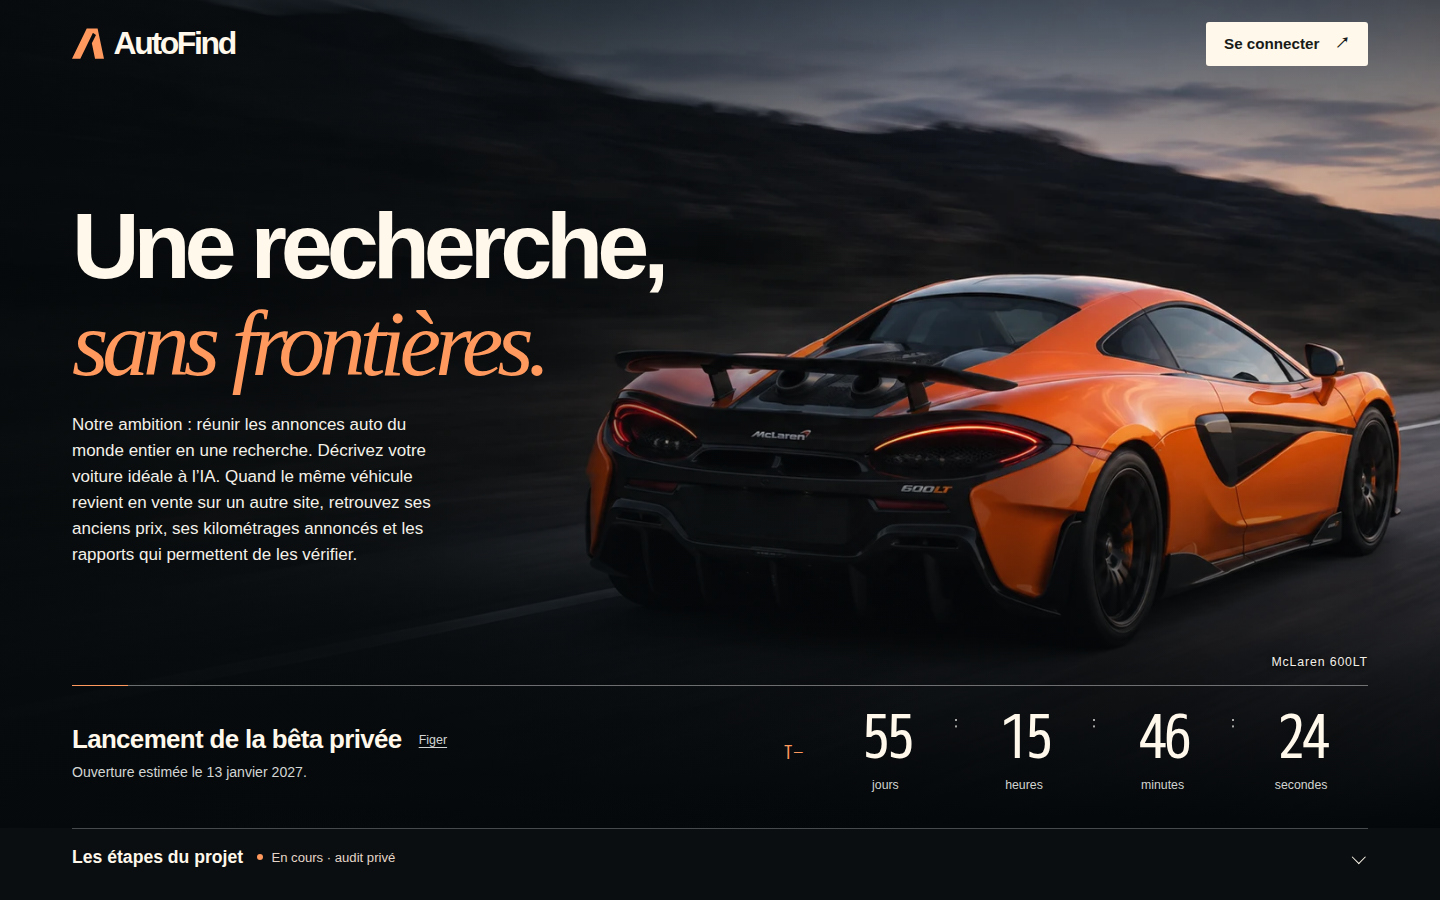
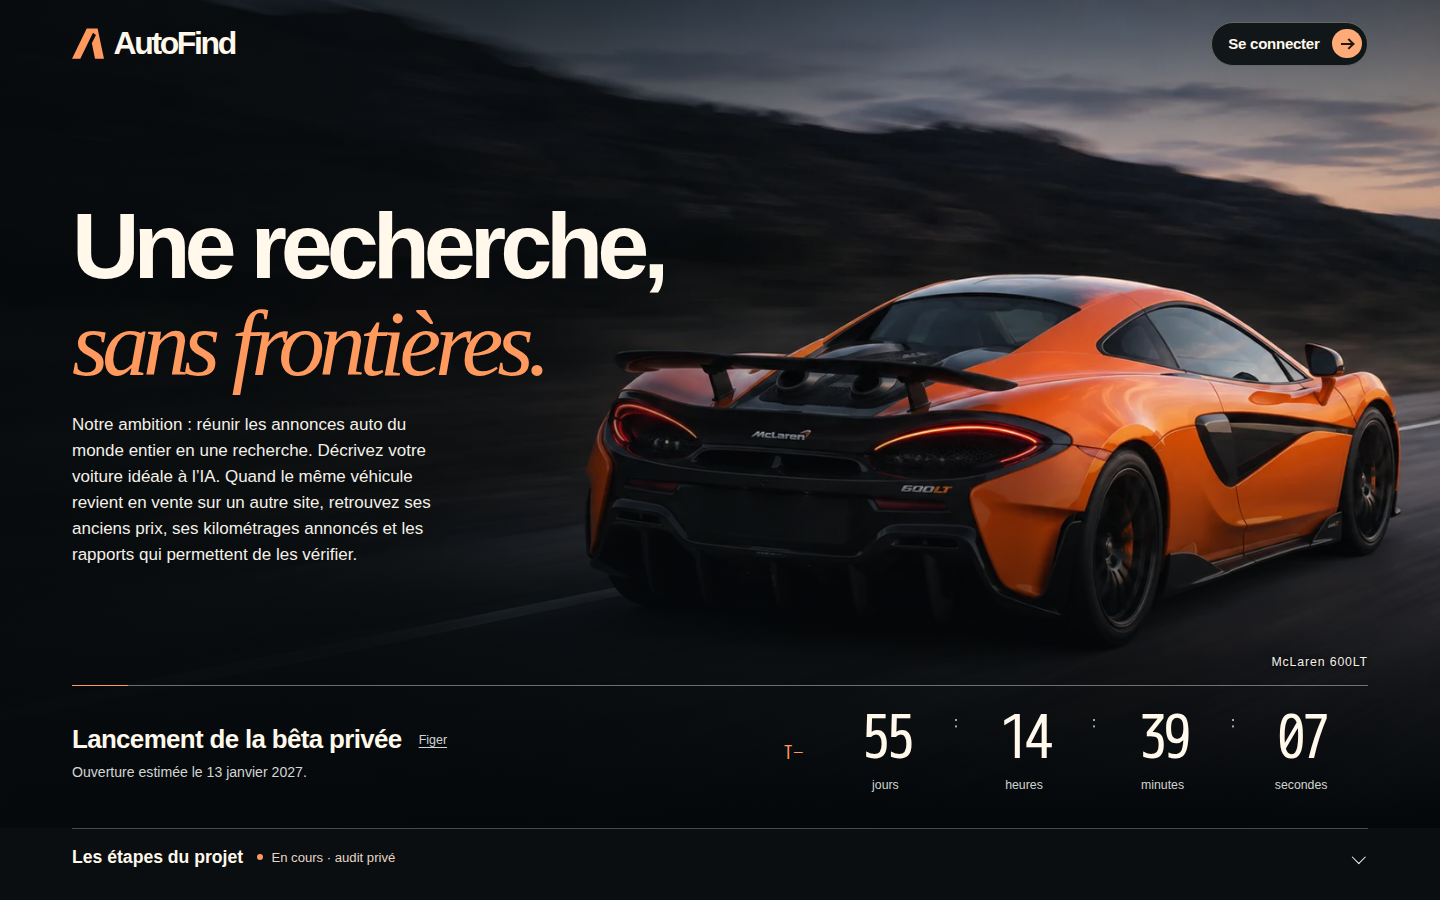
style(web): refine the launch page sign-in control

diff --git a/infra/private-web/templates/launch.html b/infra/private-web/templates/launch.html
@@ -18,8 +18,21 @@ body {min-width:0}
 header {display:flex;flex-wrap:wrap;align-items:center;justify-content:space-between;padding:1.35rem var(--gutter);gap:1rem}
 .brand {display:inline-flex;align-items:center;gap:.6rem;font-size:clamp(1.35rem,2.4vw,2rem);font-weight:750;letter-spacing:-.075em}
 .mark {width:1em;height:.95em;display:inline-block;background:var(--accent);clip-path:polygon(46% 0,72% 0,26% 100%,0 100%,46% 0,80% 0,100% 100%,72% 100%,62% 49%,75% 22%);}
-.login {display:inline-flex;align-items:center;gap:1rem;min-height:44px;padding:.65rem 1.1rem;background:var(--paper);color:#181b18;text-decoration:none;font-weight:650;font-size:.95rem;border-radius:3px}
-.login:hover {background:#ffd1ab}
+.login {--disc:#ffab78;display:inline-flex;align-items:center;justify-content:center;gap:.8rem;min-height:44px;max-width:100%;padding:.27rem .32rem .27rem 1rem;border:1px solid #626662;border-radius:2rem;background:#111718;color:#fff8eb;font-size:.94rem;line-height:1.2;font-weight:600;letter-spacing:-.018em;text-decoration:none}
+.login-icon {display:grid;place-items:center;flex:none;width:1.85rem;height:1.85rem;border-radius:50%;background:var(--disc);color:#21180f}
+.login-icon i {display:block;position:relative;width:.8rem;height:2px;background:currentColor}
+.login-icon i::after {content:"";position:absolute;right:0;top:50%;width:.38rem;height:.38rem;border:solid currentColor;border-width:2px 2px 0 0;transform:translateY(-50%) rotate(45deg)}
+.login:focus-visible,.login:hover {--disc:#ffc29a;border-color:var(--disc);background:#222827}
+.login:active {background:#31302a}
+@media(prefers-reduced-motion:no-preference) {
+  .login {transition:background-color .18s,border-color .18s}
+  .login-icon i {transition:transform .18s}
+  .login:hover .login-icon i,.login:focus-visible .login-icon i {transform:translateX(2px)}
+}
+@media(forced-colors:active) {
+  .login,.login-icon {border:1px solid ButtonText}
+  .login-icon i {color:ButtonText;background:ButtonText;forced-color-adjust:none}
+}
 a:focus-visible,button:focus-visible {outline:3px solid var(--accent);outline-offset:4px}
 .intro {flex:1;display:flex;flex-direction:column;justify-content:center;align-items:flex-start;padding:clamp(3rem,8vh,7rem) var(--gutter) clamp(2rem,5vh,4rem);min-height:28rem}
 h1 {max-width:100%;overflow-wrap:anywhere;font-size:clamp(3rem,6.5vw,7rem);line-height:.97;font-weight:600;letter-spacing:-.065em}
@@ -112,7 +125,7 @@ details[open] .chevron {transform:rotate(225deg)}
 </head>
 <body><main><div class="stage">
 <header><div class="brand"><i class="mark" aria-hidden="true"></i>AutoFind</div>
-<a class="login" href="/acces/connexion">Se connecter <span aria-hidden="true">↗</span></a></header>
+<a class="login" href="/acces/connexion">Se connecter<span class="login-icon" aria-hidden="true"><i></i></span></a></header>
 <div class="film" aria-hidden="true"><img src="/acces/launch.webp" alt="" fetchpriority="high" width="1600" height="900"></div>
 <section class="intro" aria-labelledby="headline">
 <h1 id="headline"><span class="line"><span>Une recherche,</span></span> <span class="line"><span><em>sans frontières.</em></span></span></h1>
